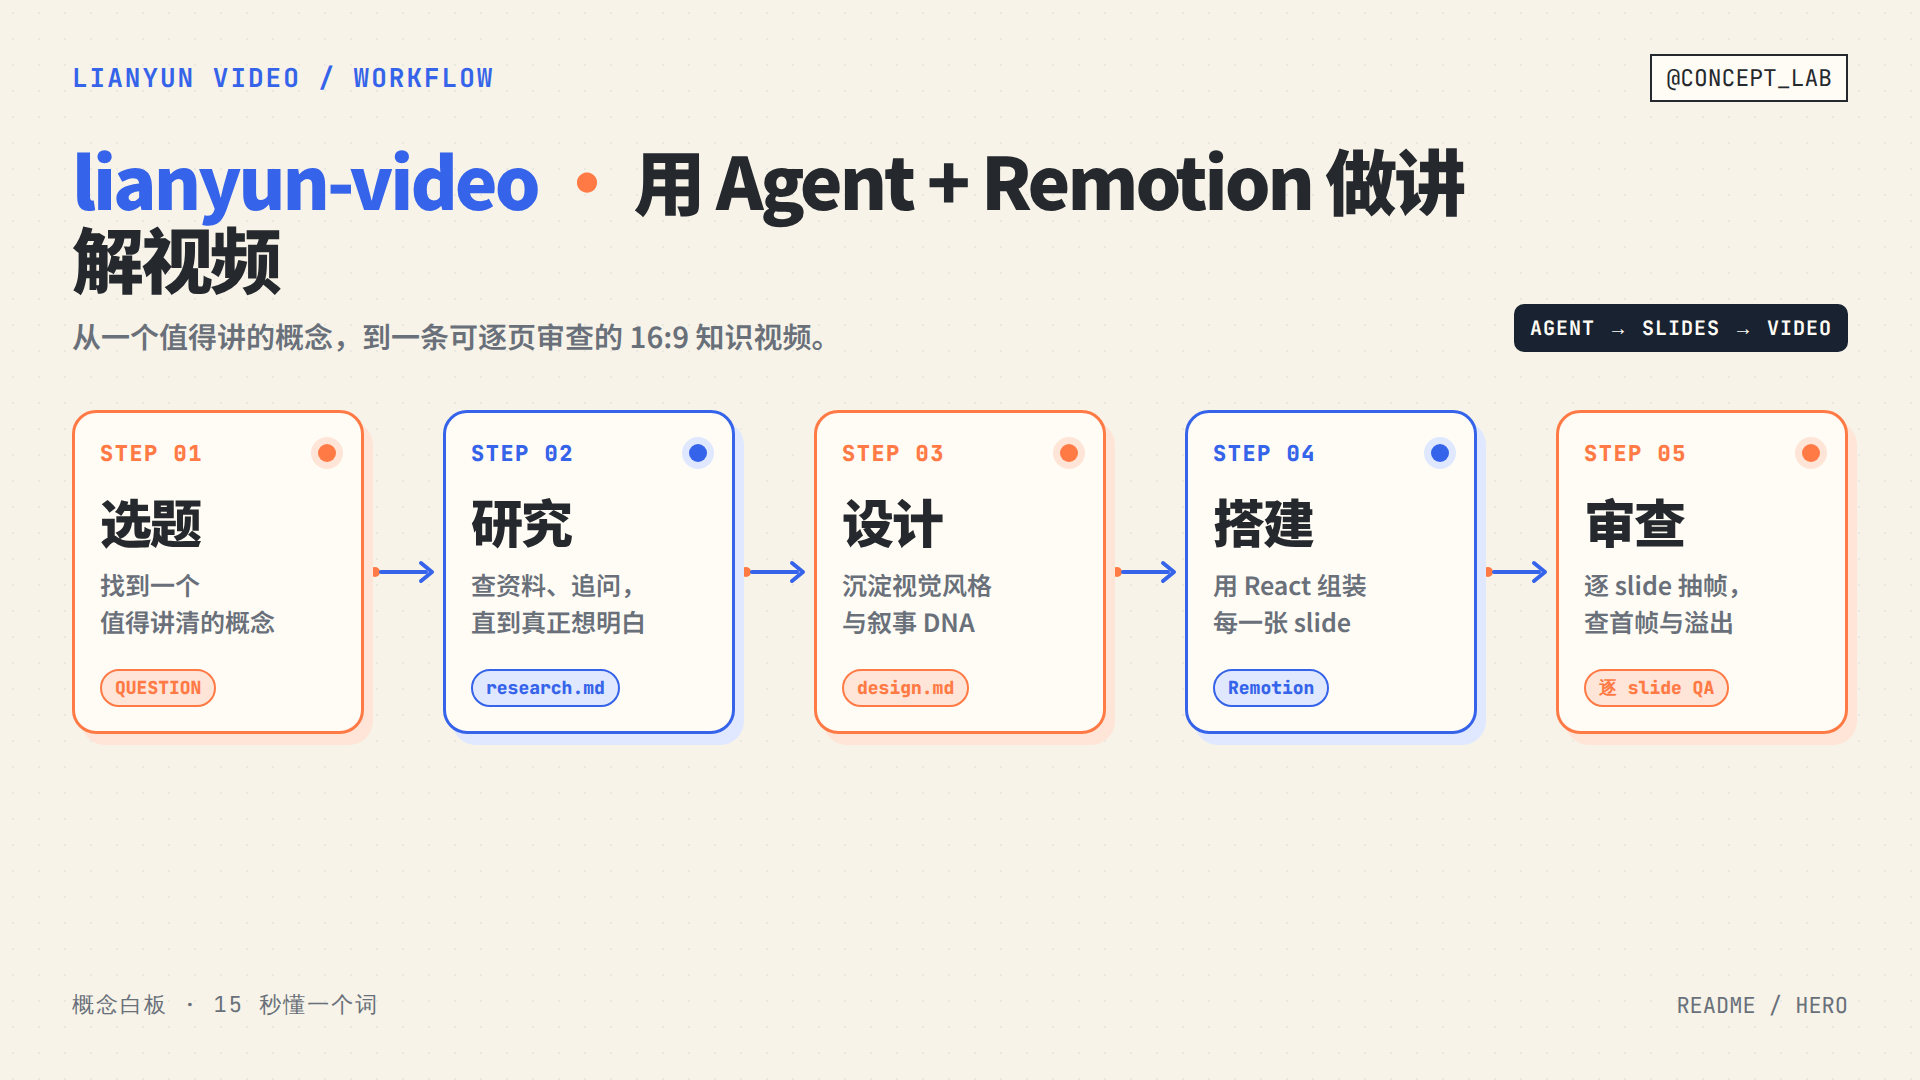
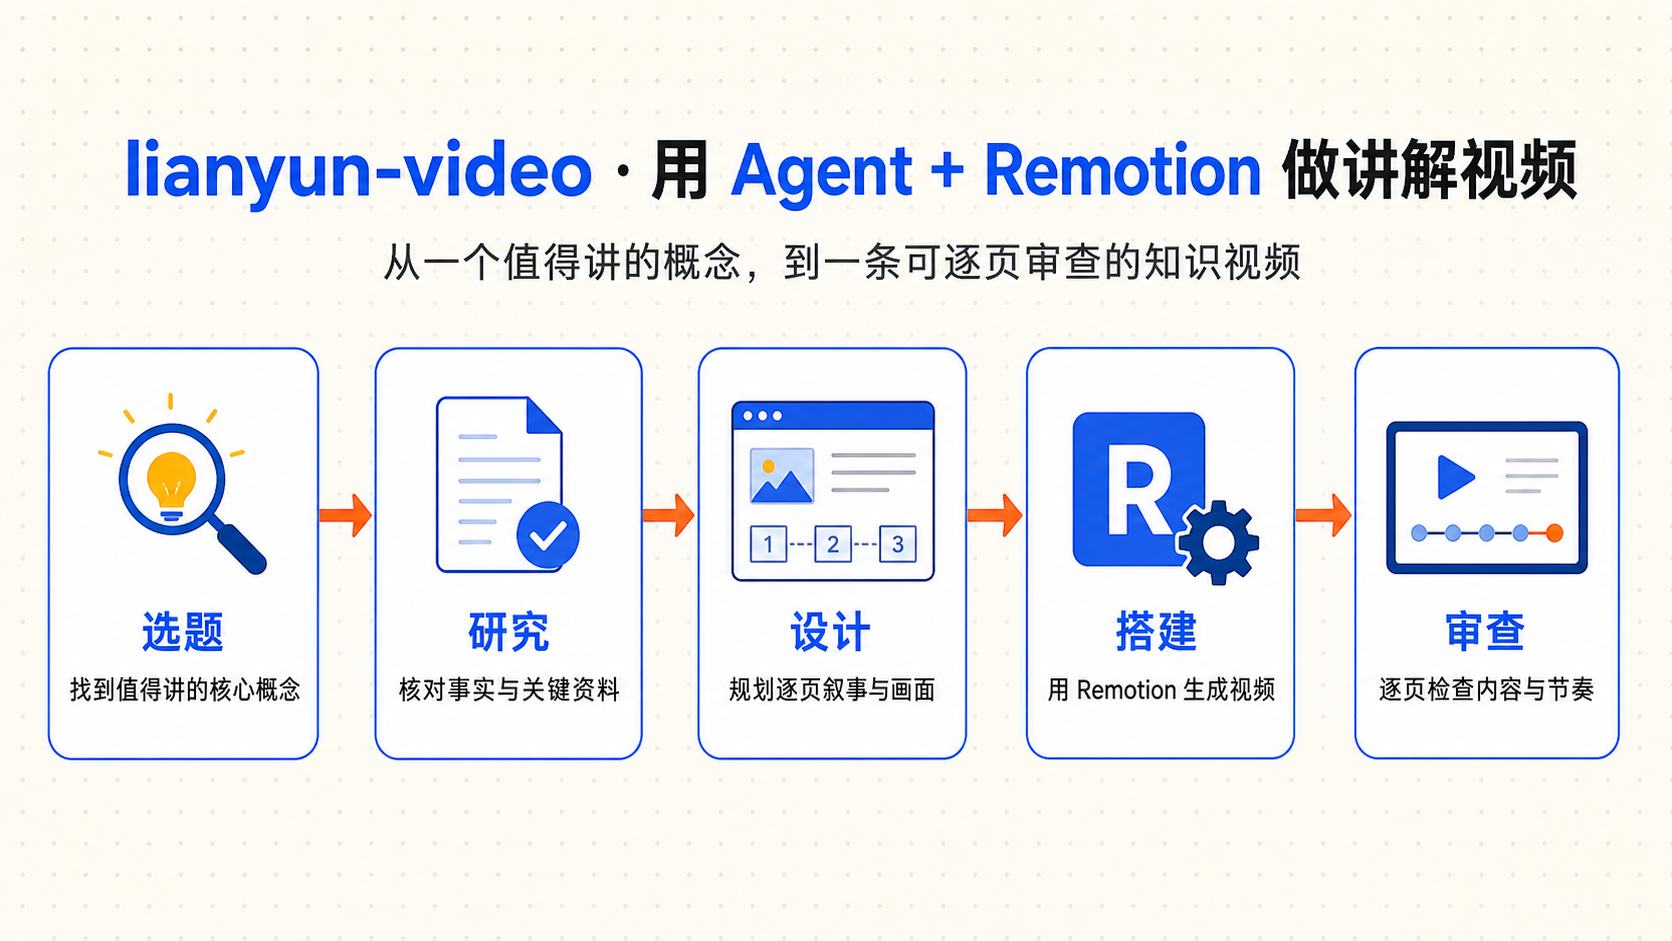
feat: skills-lock.json 声明依赖 + Codex 原生生图 hero
- skills-lock.json:机器可读地声明 3 个必需第三方 skill(experimental_install 实测可恢复)。
  README 如实说明 `skills add` 不会自动带这些依赖——用 install.sh(全局一键)或
  experimental_install(项目级)装;install.sh 收紧为只装 remotion-best-practices。
- hero:换成 Codex 用原生 image_gen 直接生成的图(中文准确、带图标的工作流图);
  从 demo 示例里撤掉 Remotion hero 组合。

Claude-Session: https://claude.ai/code/session_01Q13S6fKiBEzFtSwzo8v85y

diff --git a/demo/example-project/src/Root.tsx b/demo/example-project/src/Root.tsx
@@ -4,7 +4,6 @@ import {
   TokenExplainer,
   durationInFrames as tokenExplainerDurationInFrames,
 } from "./videos/token-explainer";
-import {Hero, durationInFrames as heroDurationInFrames} from "./videos/hero";
 
 export const RemotionRoot: React.FC = () => (
   <>
@@ -12,14 +11,6 @@ export const RemotionRoot: React.FC = () => (
       id="token-explainer"
       component={TokenExplainer}
       durationInFrames={tokenExplainerDurationInFrames}
-      fps={30}
-      width={1920}
-      height={1080}
-    />
-    <Composition
-      id="hero"
-      component={Hero}
-      durationInFrames={heroDurationInFrames}
       fps={30}
       width={1920}
       height={1080}

diff --git a/README.md b/README.md
@@ -5,6 +5,8 @@
 
 ![lianyun-video](./demo/images/hero.png)
 
+<sub>↑ 这张工作流图由 Codex 用原生生图能力直接生成。</sub>
+
 <p>
   <img alt="version" src="https://img.shields.io/badge/version-0.1.0-blue">
   <img alt="skills" src="https://img.shields.io/badge/skills-4-green">
@@ -65,12 +67,27 @@ Agent 会读入口 skill `lianyun-video`,按四步工作流往下走。
 
 ## 配套第三方 skill(必需)
 
-这套工作流依赖三个现成 skill——**引用,不搬运**。上面的 `install.sh` 已经帮你一起装好;要单独装:
+这套工作流依赖三个现成 skill——**引用,不搬运**,已在仓库根的 [`skills-lock.json`](./skills-lock.json) 里机器可读地声明:
+
+- `remotion-best-practices`(`remotion-dev/skills`)—— Remotion 官方最佳实践
+- `humanizer-zh`(`op7418/Humanizer-zh`)—— 中文去 AI 腔(脚本必过)
+- `impeccable`(`pbakaus/impeccable`)—— 视觉打磨
+
+> ⚠️ `skills add larry-xue/lianyun-video-skill` **只装本仓库这 4 个 skill,不会自动带上这 3 个依赖**。依赖要用下面任一方式单独装。
+
+**装法(任选一)**:
 
 ```bash
-npx -y skills add remotion-dev/skills -g --all      # Remotion 官方最佳实践
-npx -y skills add op7418/Humanizer-zh -g --all       # 中文去 AI 腔(脚本必过)
-npx -y skills add pbakaus/impeccable -g --all        # 视觉打磨
+# ① 全局一键(推荐)——本 skill + 3 个依赖一起装到全局
+bash install.sh
+
+# ② 项目级声明式恢复——在克隆下来的仓库目录内,从 skills-lock.json 恢复这 3 个依赖(装进当前项目,非全局)
+npx skills experimental_install
+
+# ③ 手动单独装到全局
+npx -y skills add remotion-dev/skills -g -s remotion-best-practices -y
+npx -y skills add op7418/Humanizer-zh -g --all
+npx -y skills add pbakaus/impeccable -g --all
 ```
 
 ## 不包含什么(本版本)
@@ -89,6 +106,8 @@ lianyun-video-skill/
 │   ├── lianyun-video-content/    # 选题 → 研究 → 脚本 + 写作硬标准
 │   └── lianyun-video-design/     # design.md 模板 + 视觉/动画/QA reference
 ├── demo/                         # Agent 实跑产出的示例(见下)
+├── skills-lock.json              # 声明第三方依赖(npx skills experimental_install)
+├── install.sh                    # 全局一键安装(本 skill + 3 个依赖)
 ├── LICENSE                       # CC BY-NC 4.0
 └── README.md
 ```